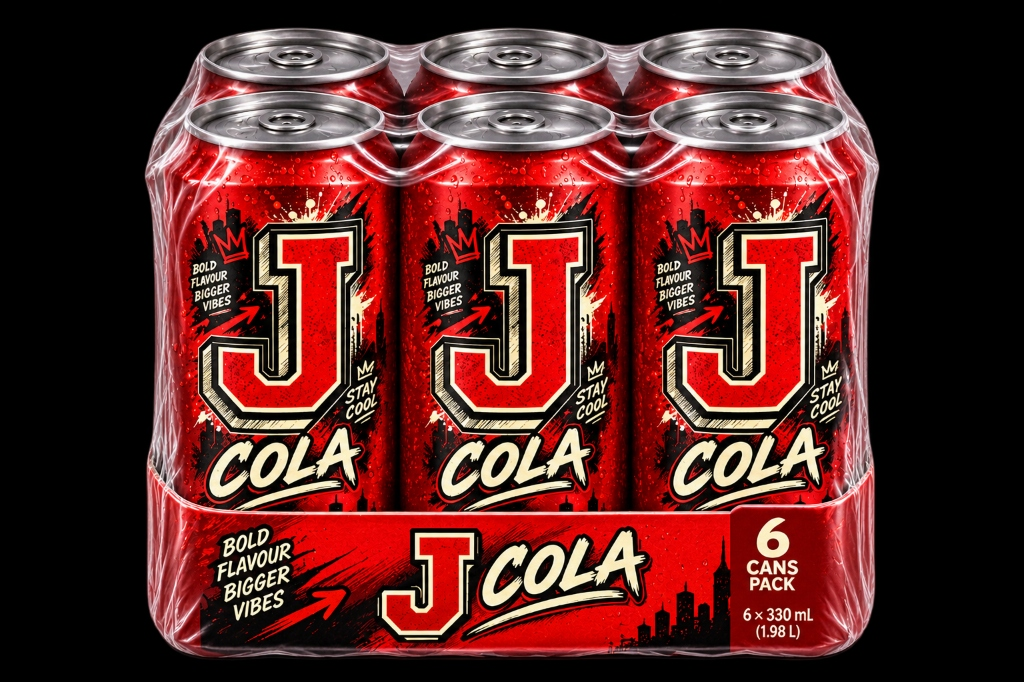
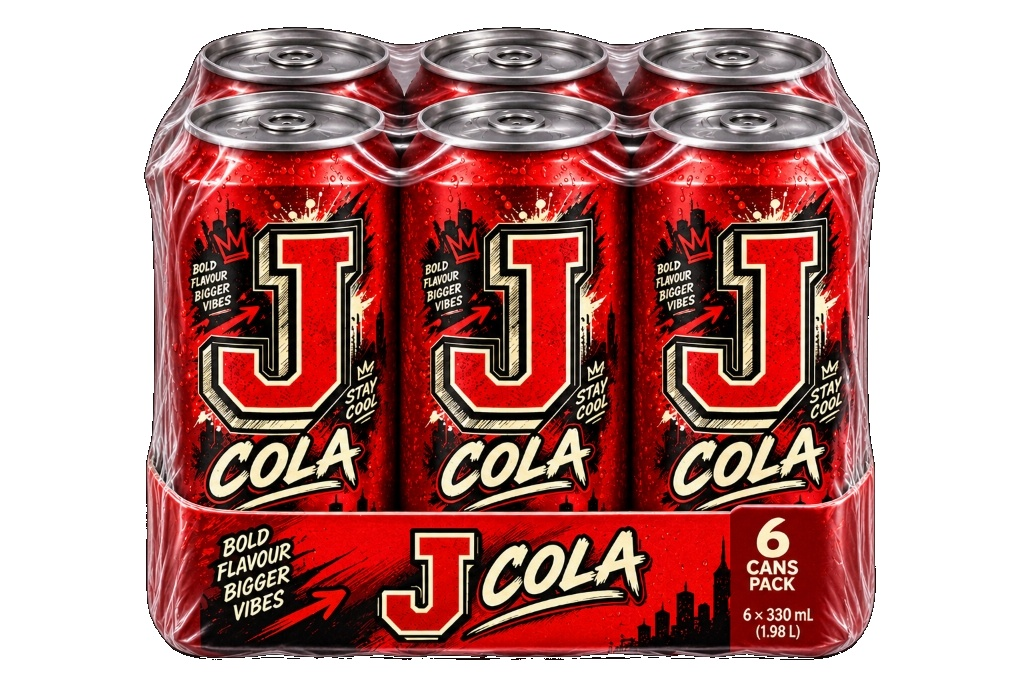
Provide clean white background and responsive spacing to prevent text and image overlap

diff --git a/main/static/main/css/style.css b/main/static/main/css/style.css
@@ -633,31 +633,36 @@ a {
 
 .switch-product {
   display: grid;
-  grid-template-columns: minmax(240px, 0.75fr) minmax(300px, 1.25fr);
+  grid-template-columns: minmax(320px, 1.15fr) minmax(300px, 0.85fr);
   align-items: center;
-  gap: clamp(1.5rem, 4vw, 4rem);
-  max-width: 860px;
+  gap: clamp(2rem, 5vw, 4.5rem);
+  max-width: 1040px;
   margin: 0 auto;
 }
 
 .switch-image-wrap {
-  background: #f2f2ef;
+  background: #ffffff;
   border-radius: 1.8rem;
-  min-height: 360px;
+  min-height: 380px;
   display: flex;
   align-items: center;
   justify-content: center;
   overflow: hidden;
+  border: 1px solid rgba(0, 0, 0, 0.08);
+  box-shadow: 0 10px 30px rgba(0, 0, 0, 0.05);
 }
 
 .switch-image {
-  width: 100%;
-  height: 100%;
+  max-width: 100%;
+  max-height: 360px;
+  width: auto;
+  height: auto;
   object-fit: contain;
   padding: 1.5rem;
 }
 
 .switch-details {
+  min-width: 0;
   text-align: left;
 }
 
@@ -671,18 +676,25 @@ a {
 
 .switch-details h3 {
   margin: 0.7rem 0 0;
-  font-size: clamp(2.2rem, 4vw, 4rem);
-  line-height: 0.9;
-  letter-spacing: -0.08em;
+  font-size: clamp(1.8rem, 3.2vw, 2.75rem);
+  line-height: 1.08;
+  letter-spacing: -0.03em;
   font-weight: 800;
   text-transform: uppercase;
+  word-break: break-word;
+  overflow-wrap: break-word;
 }
 
 .product-info {
   display: flex;
-  justify-content: space-between;
+  flex-wrap: wrap;
   align-items: center;
-  margin-top: 0.9rem;
+  justify-content: space-between;
+  gap: 0.75rem;
+  margin-top: 1.1rem;
+  padding: 0.75rem 0;
+  border-top: 1px solid rgba(0, 0, 0, 0.08);
+  border-bottom: 1px solid rgba(0, 0, 0, 0.08);
   font-size: 0.9rem;
   color: #555;
   letter-spacing: 0.06em;
@@ -697,13 +709,16 @@ a {
 
 .add {
   display: inline-flex;
-  margin-top: 1.2rem;
-  padding: 0.9rem 1.4rem;
+  align-items: center;
+  justify-content: center;
+  padding: 0.85rem 1.4rem;
   border-radius: 999px;
   text-decoration: none;
   background: #111;
   color: #fff;
   font-weight: 600;
+  cursor: pointer;
+  border: 0;
 }
 
 .home-purchase-actions {
@@ -711,6 +726,11 @@ a {
   flex-wrap: wrap;
   align-items: center;
   gap: 0.75rem;
+  margin-top: 1.25rem;
+}
+
+.home-purchase-actions .add {
+  margin-top: 0;
 }
 
 .home-purchase-actions form {
@@ -1969,17 +1989,20 @@ a {
 }
 
 .switch-image-wrap.is-combo {
-  background: #000000;
-  border: 1px solid rgba(255, 255, 255, 0.12);
-  box-shadow: 0 12px 36px rgba(0, 0, 0, 0.6);
+  background: #ffffff;
+  border: 1.5px solid rgba(245, 158, 11, 0.35);
+  box-shadow: 0 12px 32px rgba(0, 0, 0, 0.06);
 }
 
 .product-tile.is-combo-tile {
-  border-color: rgba(245, 158, 11, 0.4);
+  border-color: rgba(245, 158, 11, 0.45);
 }
 
 .product-tile.is-combo-tile .product-tile-image {
-  background: #000000;
-  border-radius: 8px;
+  background: #ffffff;
+  border: 1px solid rgba(0, 0, 0, 0.07);
+  border-radius: 12px;
+  box-shadow: 0 2px 8px rgba(0, 0, 0, 0.04);
+  padding: 6px;
 }
 

diff --git a/main/static/main/script.js b/main/static/main/script.js
@@ -48,7 +48,7 @@ if (switcher && productData.length) {
             }
             volume.textContent = product.volume;
             if (isCombo && product.original_price) {
-                price.innerHTML = `<span style="color: #2fcf7a; font-weight: 800;">₹${product.price}</span> <del style="opacity: 0.55; font-size: 0.82em; margin-left: 6px; font-weight: 400;">₹${product.original_price}</del> <span class="badge" style="background: rgba(47, 207, 122, 0.2); color: #2fcf7a; font-size: 0.72em; margin-left: 8px; padding: 3px 8px; border-radius: 999px;">${product.discount_display || 'SPECIAL OFFER'}</span>`;
+                price.innerHTML = `<span style="color: #16a34a; font-weight: 800; font-size: 1.15em;">₹${product.price}</span> <del style="opacity: 0.55; font-size: 0.85em; margin: 0 6px; font-weight: 400; color: #666;">₹${product.original_price}</del> <span class="badge" style="background: rgba(22, 163, 74, 0.12); color: #15803d; border: 1px solid rgba(22, 163, 74, 0.25); font-size: 0.72em; padding: 3px 8px; border-radius: 999px; font-weight: 700; white-space: nowrap;">${product.discount_display || 'SPECIAL OFFER'}</span>`;
             } else {
                 price.textContent = `₹${Number(product.price).toFixed(0)}`;
             }

diff --git a/django123proj/wsgi.py b/django123proj/wsgi.py
@@ -32,7 +32,7 @@ if os.environ.get("VERCEL") == "1":
                 "min_quantity": 6,
                 "min_distinct_products": 6,
                 "badge_text": "Cans of Assortment",
-                "image": "combos/cans_of_assortment.jpg",
+                "image": "combos/cans_of_assortment.png",
                 "description": "Mix & match any 6 different cans to unlock the Cans of Assortment combo offer with 15% instant discount!",
                 "is_active": True,
             },

diff --git a/main/models.py b/main/models.py
@@ -522,7 +522,7 @@ class ComboOffer(models.Model):
                 return self.image.url
             except Exception:
                 pass
-        return "/static/main/images/combos/cans_of_assortment.jpg"
+        return "/static/main/images/combos/cans_of_assortment.png"
 
     def evaluate_cart(self, cart_items, subtotal=None):
         if not self.is_valid_status:
